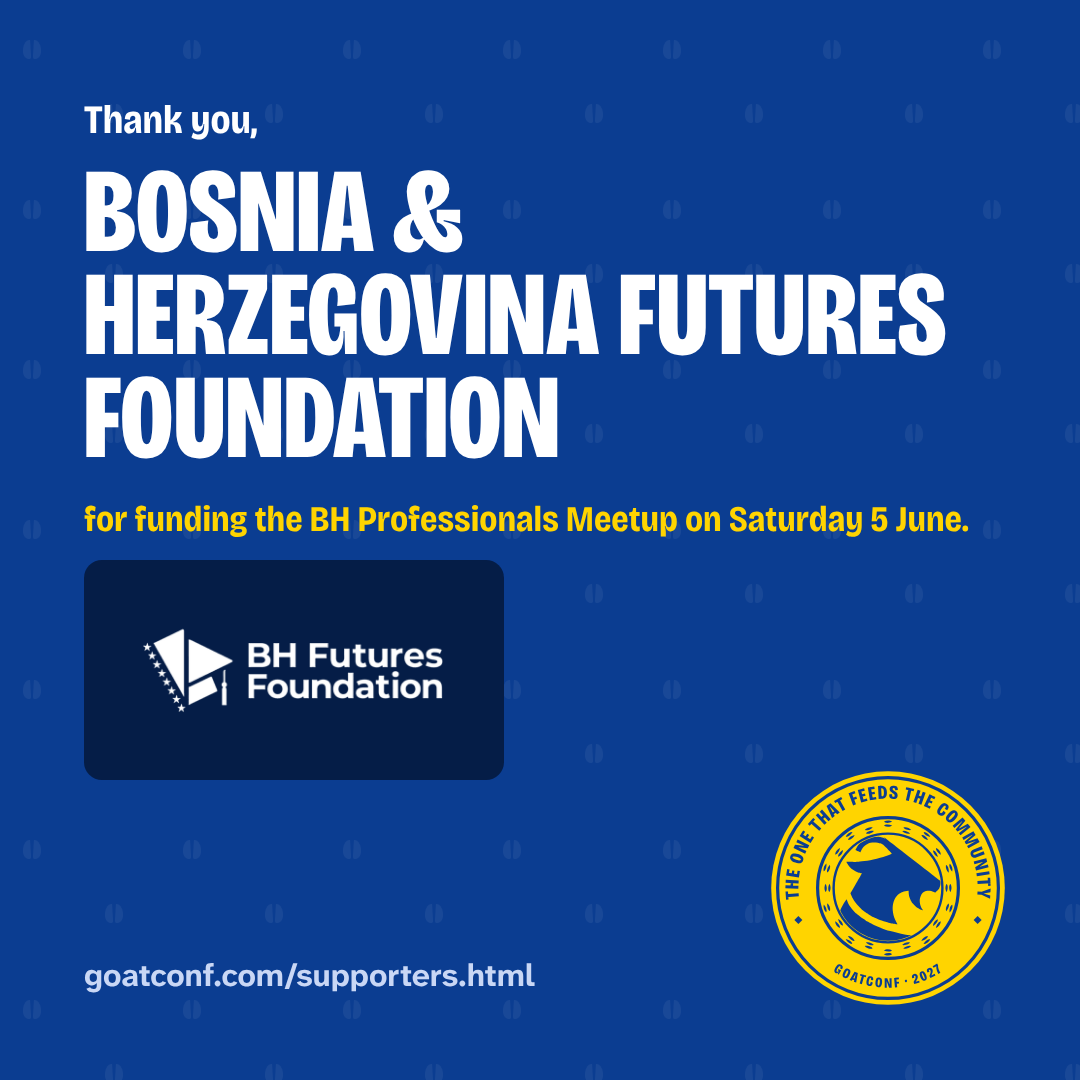
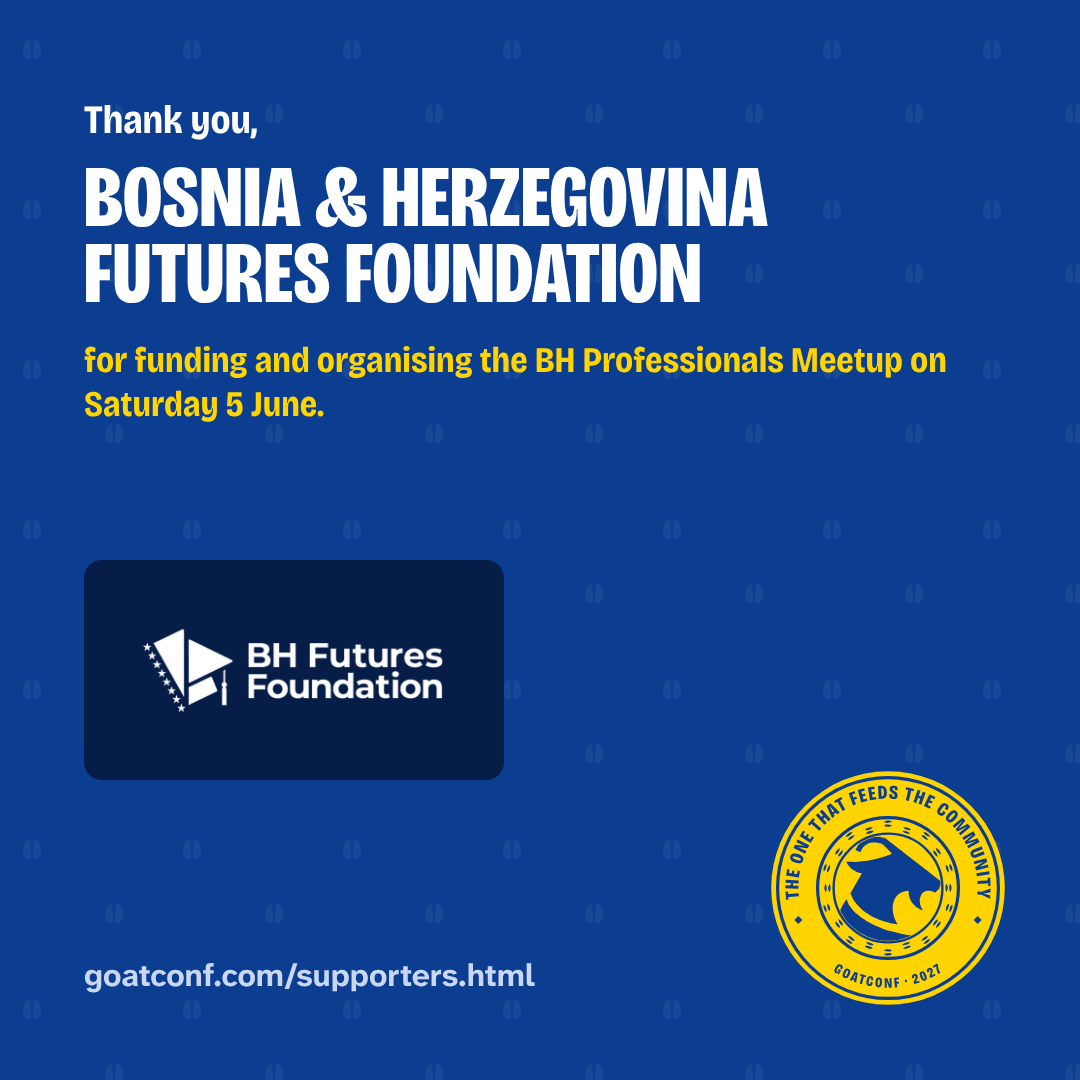
site: BH Futures Foundation funds and organises the meetup
On the organiser's word, the foundation's supporter line reads
"Funding and organising the BH Professionals Meetup on Saturday 5
June". The thank-you card put "for funding" in front of every line;
a line that starts with what the supporter does is now used as it
stands. On the square card a long supporter name is set smaller, so
the foundation's name and line no longer run into its logo. The
supporters README says how the card reads the line.

Source: files/sources/conversations/2026-10-18--org--bhff-funding-and-organising.md

Changed region(s): [[0.0611, 0.1528, 0.8861, 0.4278], [0.0611, 0.4583, 0.8861, 0.5194]]

diff --git a/files/site/index.html b/files/site/index.html
@@ -234,7 +234,7 @@
 <h3 class="list-title">Who makes it possible</h3>
     <ul class="slots slots--supporters-home">
     <li><a class="supporter-chip supporter-chip--dark" href="supporters.html#ipi-academy"><img src="img/supporters/ipi-academy.png" alt="IPI Academy" loading="lazy"><small>Host and partner: the rooms at IPI Academy</small></a></li>
-    <li><a class="supporter-chip supporter-chip--dark" href="supporters.html#bh-futures-foundation"><img src="img/supporters/bh-futures-foundation.png" alt="Bosnia &amp; Herzegovina Futures Foundation" loading="lazy"><small>The BH Professionals Meetup on Saturday 5 June</small></a></li>
+    <li><a class="supporter-chip supporter-chip--dark" href="supporters.html#bh-futures-foundation"><img src="img/supporters/bh-futures-foundation.png" alt="Bosnia &amp; Herzegovina Futures Foundation" loading="lazy"><small>Funding and organising the BH Professionals Meetup on Saturday 5 June</small></a></li>
     <li><a class="supporter-chip" href="supporters.html#meister"><img src="img/supporters/meister.svg" alt="Meister" loading="lazy"><small>Christoph Lipautz&#x27;s travel</small></a></li>
     </ul>
     <p class="copy"><a class="go go--ink" href="supporters.html">The supporters</a></p>

diff --git a/files/site/supporters.html b/files/site/supporters.html
@@ -75,7 +75,7 @@
     <span class="num">2</span>
     <a class="supporter__logo supporter__logo--dark" href="https://www.bhfuturesfoundation.org"><img src="img/supporters/bh-futures-foundation.png" alt="Bosnia &amp; Herzegovina Futures Foundation" loading="lazy"></a>
     <strong>Bosnia &amp; Herzegovina Futures Foundation</strong>
-    <p class="supporter__funds">The BH Professionals Meetup on Saturday 5 June</p>
+    <p class="supporter__funds">Funding and organising the BH Professionals Meetup on Saturday 5 June</p>
   </li>
   <li class="sticker sticker--supporter" id="meister" data-peel style="--tilt:0.5deg">
     <span class="num">3</span>

diff --git a/files/tools/shareables.py b/files/tools/shareables.py
@@ -139,14 +139,26 @@ def speaker_card(slug: str, meta, talks: list[str], square: bool, height: int = 
 {seal(240 if square else 230, "right:72px; bottom:72px")}""")
 
 
+def thanks(meta) -> str:
+    """The card's last line. A funds line that starts with what the supporter
+    does ("Funding and organising ...") is used as it stands; any other line
+    names what they fund."""
+    if meta.get("host") is True:
+        return "for hosting GoatConf 2027."
+    funds = str(meta["funds"])
+    if funds.split()[0].lower().endswith("ing"):
+        return f"for {esc(funds[0].lower() + funds[1:])}."
+    return "for funding " + esc(funds[0].lower() + funds[1:]) + "."
+
+
 def supporter_card(slug: str, meta, square: bool) -> str:
     w, h = (1080, 1080) if square else (1200, 675)
     logo = (SITE / meta["logo"]).as_uri()
     return page(w, h, f"""
 <div style="position:absolute; left:{84 if square else 72}px; top:{96 if square else 72}px; right:{84 if square else 460}px">
   <div class="sub" style="font-size:{40 if square else 32}px; color:#fff">Thank you,</div>
-  <div class="word" style="font-size:{120 if square else 92}px; margin-top:16px">{esc(str(meta['name']))}</div>
-  <div class="sub" style="font-size:{36 if square else 28}px; line-height:1.2; margin-top:28px">{'for hosting GoatConf 2027.' if meta.get('host') is True else 'for funding ' + esc(str(meta['funds'])[0].lower() + str(meta['funds'])[1:]) + '.'}</div>
+  <div class="word" style="font-size:{(120 if len(str(meta['name'])) <= 24 else 88) if square else 92}px; margin-top:16px">{esc(str(meta['name']))}</div>
+  <div class="sub" style="font-size:{36 if square else 28}px; line-height:1.2; margin-top:28px">{thanks(meta)}</div>
 </div>
 <div style="position:absolute; {'left:84px; bottom:300px' if square else 'right:72px; top:72px'}; width:{420 if square else 340}px; height:{220 if square else 180}px; background:{NIGHT if meta.get('logo_on') == 'dark' else '#fff'}; border-radius:18px; display:grid; place-items:center; padding:28px">
   <img src="{logo}" style="max-width:100%; max-height:100%; object-fit:contain"></div>

diff --git a/files/sources/conversations/2026-10-18--org--bhff-funding-and-organising.md b/files/sources/conversations/2026-10-18--org--bhff-funding-and-organising.md
@@ -1,0 +1,22 @@
+---
+title: "BH Futures Foundation's supporter line: funding and organising"
+date: 2026-10-18
+kind: conversation
+---
+
+After the foundation was added to the supporters with the line "The BH
+Professionals Meetup on Saturday 5 June"
+(`sources/conversations/2026-10-18--org--bhff-listed-as-supporter.md`),
+the organiser wrote, verbatim:
+
+> Funding and organizing
+
+Read as the wording of the foundation's line: it funds and organises
+the meetup. The line becomes "Funding and organising the BH
+Professionals Meetup on Saturday 5 June", spelled "organising" as the
+site spells "organiser" and "Organised". Its thank-you card read "for
+funding" in front of every line, so a line that starts with what the
+supporter does is now used as it stands: "for funding and organising
+the BH Professionals Meetup on Saturday 5 June." The square card also
+sets a long supporter name smaller, so the foundation's name and line
+no longer run into its logo.

diff --git a/files/supporters/README.md b/files/supporters/README.md
@@ -12,7 +12,10 @@ one.
 - `logo`: required, the supporter's logo saved under
   `site/img/supporters/` (SVG or PNG on a transparent or white background).
 - `funds`: required, how they support, in plain words, for example
-  "Online supporter" or "The printing, paid to the printer".
+  "Online supporter" or "The printing, paid to the printer". Their
+  "thank you" card reads "for funding" and this line; a line that starts
+  with what they do, such as "Funding and organising the meetup", is used
+  as it stands ("for funding and organising the meetup").
 - `host: yes`: optional, for the host and partner, IPI Academy. It is listed
   first, before every other supporter, and its "thank you" card thanks it for
   hosting.

diff --git a/files/supporters/bh-futures-foundation.md b/files/supporters/bh-futures-foundation.md
@@ -3,5 +3,5 @@ name: Bosnia & Herzegovina Futures Foundation
 logo: img/supporters/bh-futures-foundation.png
 logo_on: dark
 url: https://www.bhfuturesfoundation.org
-funds: The BH Professionals Meetup on Saturday 5 June
+funds: Funding and organising the BH Professionals Meetup on Saturday 5 June
 ---
